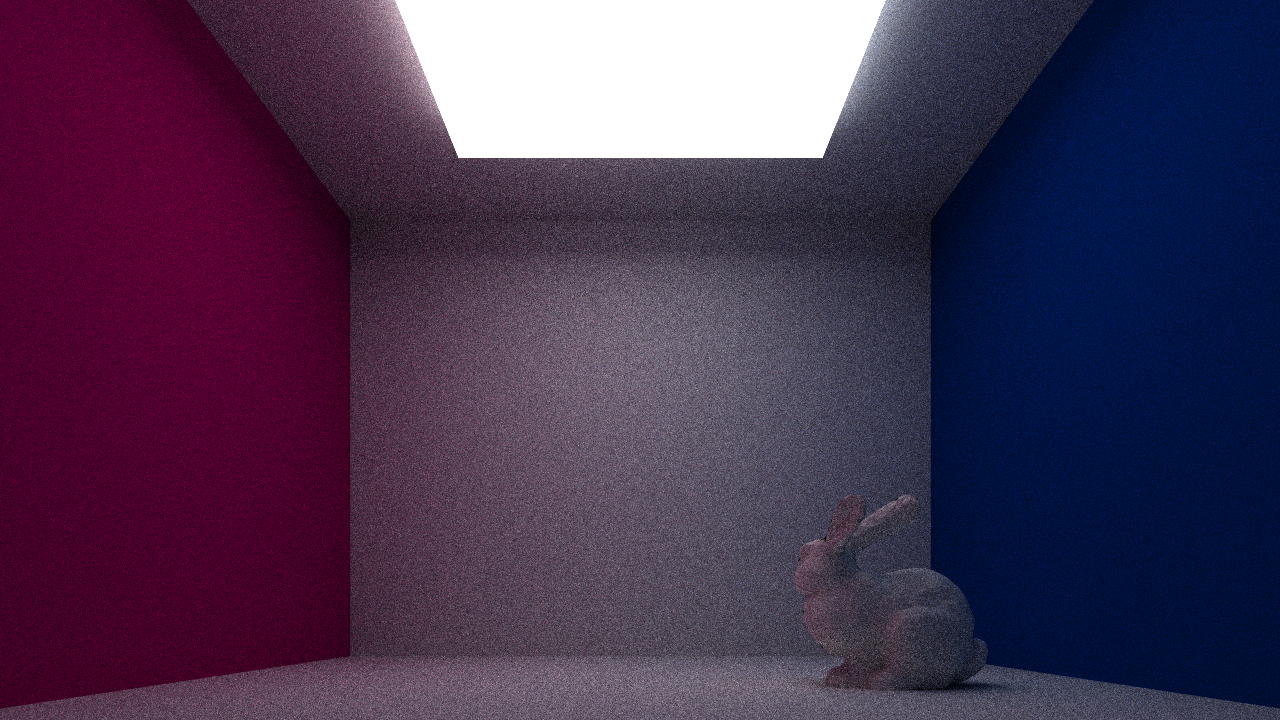
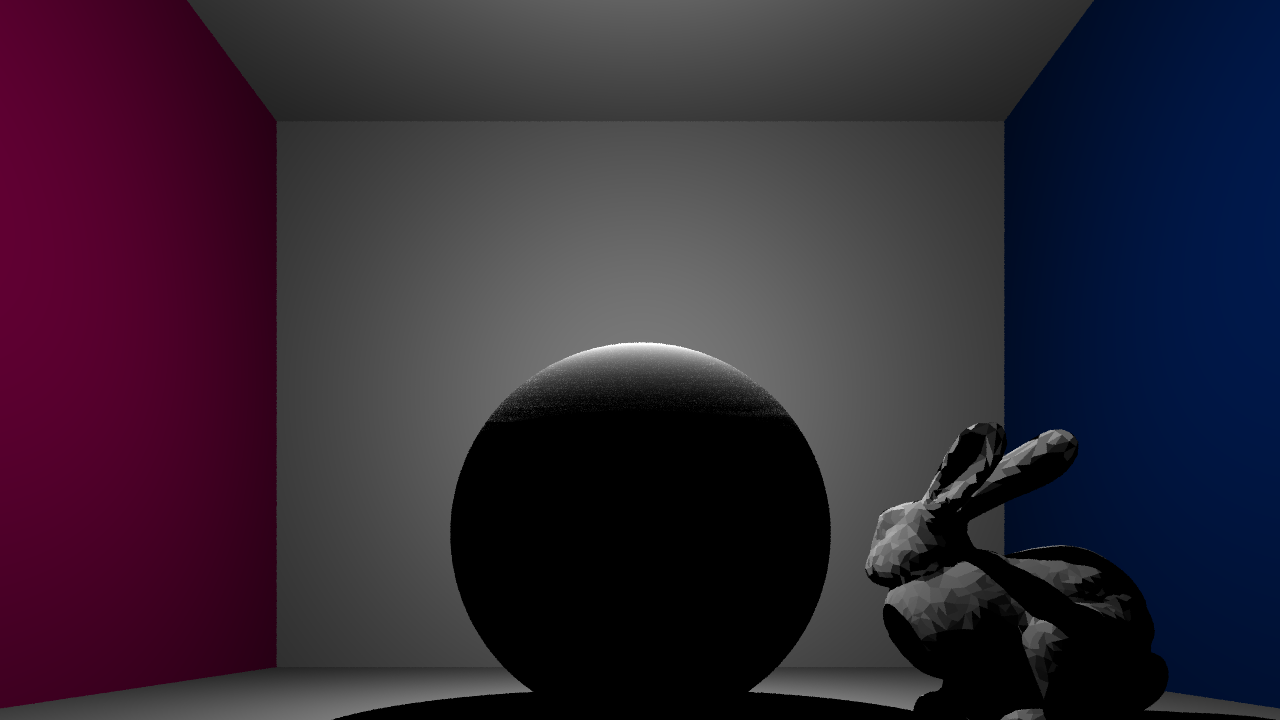
Only using structs

diff --git a/Scene.cpp b/Scene.cpp
@@ -21,13 +21,26 @@ Material areaLight = { BRIGHT,  MaterialType::LIGHT, 1.0, 1.0 };
 
 Scene::Scene()
 {
+	Primitive plane1 = { 0, ObjectType::PLANE, float3(1, 0, 0), float3(1, 0, 0), float3(0), float3(0), float3(1, 0, 0), 2.f, 0.f, 0.f, purpleDiffuse }; // left wall
+	Primitive plane2 = { 1, ObjectType::PLANE, float3(-1, 0, 0), float3(-1, 0, 0), float3(0), float3(0), float3(-1, 0, 0), 2.f, 0.f, 0.f, blueDiffuse }; // right wall
+	Primitive plane3 = { 2, ObjectType::PLANE, float3(0, -1, 0), float3(0, -1, 0), float3(0), float3(0), float3(0, -1, 0), 2.f, 0.f, 0.f, whiteDiffuse }; // ceiling
+	Primitive plane4 = { 3, ObjectType::PLANE, float3(0, 1, 0), float3(0, 1, 0), float3(0), float3(0), float3(0, 1, 0), 1.f, 0.f, 0.f, whiteDiffuse }; // floor wall
+	Primitive plane5 = { 4, ObjectType::PLANE, float3(0, 0, 1), float3(0, 0, 1), float3(0), float3(0), float3(0, 0, 1), 3.f, 0.f, 0.f, whiteDiffuse }; // front wall
+	Primitive plane6 = { 5, ObjectType::PLANE, float3(0, 0, -1), float3(0, 0, -1), float3(0), float3(0), float3(0, 0, -1), 2.f, 0.f, 0.f, whiteDiffuse }; // back wall
 	planes.emplace_back(Plane(0, float3(1, 0, 0), 2.f, purpleDiffuse)); // left wall
 	planes.emplace_back(Plane(1, float3(-1, 0, 0), 2.f, blueDiffuse)); // right wall
 	planes.emplace_back(Plane(2, float3(0, -1, 0), 2.f, whiteDiffuse)); // ceiling
 	planes.emplace_back(Plane(3, float3(0, 1, 0), 1.f, whiteDiffuse)); // floor
 	planes.emplace_back(Plane(4, float3(0, 0, 1), 3.f, whiteDiffuse)); // front wall
 	planes.emplace_back(Plane(5, float3(0, 0, -1), 2.f, whiteDiffuse)); // back wall
-	
+
+	/*primitives.push_back(plane1);
+	primitives.push_back(plane2);
+	primitives.push_back(plane3);
+	primitives.push_back(plane4);
+	primitives.push_back(plane5);
+	primitives.push_back(plane6);*/
+
 	//spheres.emplace_back(Sphere(0, float3(-1.3f, 0.f, 0.f), 0.6f, whiteDiffuse, new TextureMap("\\assets\\universe.jpg")));
 	//spheres.emplace_back(Sphere(1, float3(-0.2f, 0.f, 0.f), 0.5f, mirror));
 	//spheres.emplace_back(Sphere(2, float3(0.7f, 0.f, 0.f), 0.4f, glass));
@@ -41,21 +54,32 @@ Scene::Scene()
 
 	//skydomeTexture = new TextureMap("\\assets\\sky.jfif");
 
+	Primitive sphere = { 0, ObjectType::SPHERE, float3(0.f, -0.5f, 0), float3(0.f, -0.5f, 0), float3(0), float3(0), float3(0), 0.5f, 0.f, 0.f, whiteDiffuse };
+	primitives.push_back(sphere);
+	LoadModelNew(primitives.size(), "assets\\bunny.obj", whiteDiffuse, float3(2.0f, -2.f, 0.0f), 0.5f);
+	//LoadModelNew(primitives.size(), "assets\\ChristmasTree.obj", greenDiffuse, float3(10.0f, -15.f, 10.0f), 0.01f);
+
+	bvh = new Bvh(primitives);
+	bvh->BuildBVH();
+
 #ifdef WHITTED_STYLE
 	light = new Light(float3(0.f, 0.5f, 0.0f));
 #else
 	triangles.emplace_back(Triangle(0, float3(-1.f, 1.8f, -1.f), float3(1.f, 1.8f, -1.f), float3(1.f, 1.8f, 1.f), float3(0, -1, 0), areaLight));
 	triangles.emplace_back(Triangle(1, float3(-1.f, 1.8f, 1.f), float3(-1.f, 1.8f, -1.f), float3(1.f, 1.8f, 1.f), float3(0, -1, 0), areaLight));
 #endif
-
-	//LoadModelNew(0, "assets\\ChristmasTree.obj", greenDiffuse, float3(10.0f, -15.f, 10.0f), 0.01f);
-	LoadModelNew(2, "assets\\bunny.obj", whiteDiffuse, float3(2.0f, -2.f, 0.0f), 0.5f);
 }
 
 void Scene::FindNearest(Ray& ray, bool isShadowRay)
 {
 	float t;
+	for (int i = 0; i < planes.size(); ++i)
+	{
+		planes[i].Intersect(ray);
+	}
+	bvh->IntersectBVH(ray, Bvh::rootNodeIdx);
 
+	/*
 	for (int i = 0; i < triangles.size(); ++i)
 	{
 		triangles[i].Intersect(ray);
@@ -83,7 +107,7 @@ void Scene::FindNearest(Ray& ray, bool isShadowRay)
 	for (int i = 0; i < planes.size(); ++i)
 	{
 		planes[i].Intersect(ray);
-	}
+	}*/
 }
 
 bool Scene::IsOccluded(const Ray& ray)
@@ -253,7 +277,6 @@ void Scene::LoadModel(int idx, const char* fileName, Material material, const fl
 
 void Scene::LoadModelNew(int triIdx, const char* fileName, Material material, const float3& offset, float scale)
 {
-	std::vector<Triangle> mesh;
 	mat4 transform = mat4::Translate(offset.x, offset.y, offset.z) ;
 
 	std::string inputfile = fileName;
@@ -315,8 +338,8 @@ void Scene::LoadModelNew(int triIdx, const char* fileName, Material material, co
 				// tinyobj::real_t green = attrib.colors[3*size_t(idx.vertex_index)+1];
 				// tinyobj::real_t blue  = attrib.colors[3*size_t(idx.vertex_index)+2];
 			}
-			Triangle newTri = Triangle(triIdx, vertices[0], vertices[1], vertices[2], normal, material);
-			mesh.push_back(newTri);
+			Primitive primitive = { triIdx, ObjectType::TRIANGLE, (vertices[0]+vertices[1]+vertices[2])/0.33333f, vertices[0], vertices[1], vertices[2], normal, 0.f, 0.f, 0.f, material};
+			primitives.push_back(primitive);
 
 			index_offset += fv;
 			triIdx += 1;
@@ -324,10 +347,6 @@ void Scene::LoadModelNew(int triIdx, const char* fileName, Material material, co
 			shapes[s].mesh.material_ids[f];
 		}
 	}
-
-	Bvh b(mesh);
-	b.BuildBVH();
-	models.emplace_back(b);
 }
 
 float3 Scene::GetAlbedo(Ray& ray, const float3& N)

diff --git a/Bvh.cpp b/Bvh.cpp
@@ -1,9 +1,9 @@
 #include "precomp.h"
 
-Bvh::Bvh(vector<Triangle> triangles) {
-    tri = triangles;
+Bvh::Bvh(vector<Primitive> pri) {
+    primitives = pri;
     
-    N = tri.size();
+    N = primitives.size();
     
     for (int i = 0; i < 2 * N; i++) {
         BVHNode newNode = {
@@ -12,19 +12,16 @@ Bvh::Bvh(vector<Triangle> triangles) {
         bvhNodes.push_back(newNode);
     }
     
-    triIndices.resize(N);
+    primitivesIndices.resize(N);
 }
 
 void Bvh::BuildBVH()
 {
     // populate triangle index array
-    for (int i = 0; i < N; i++) triIndices[i] = i;
-    // calculate triangle centroids for partitioning
-    for (int i = 0; i < N; i++)
-        tri[i].centroid = (tri[i].v0 + tri[i].v1 + tri[i].v2) * 0.3333f;
+    for (int i = 0; i < N; i++) primitivesIndices[i] = i;
     // assign all triangles to root node
     BVHNode& root = bvhNodes[rootNodeIdx];
-    root.leftFirst = 0, root.triCount = N;
+    root.leftFirst = 0, root.primitivesCount = N;
     UpdateNodeBounds(rootNodeIdx);
     // subdivide recursively
     Subdivide(rootNodeIdx);
@@ -35,15 +32,23 @@ void Bvh::UpdateNodeBounds(uint nodeIdx)
     BVHNode& node = bvhNodes[nodeIdx];
     node.aabbMin = float3(1e30f);
     node.aabbMax = float3(-1e30f);
-    for (uint first = node.leftFirst, i = 0; i < node.triCount; i++)
+    for (uint first = node.leftFirst, i = 0; i < node.primitivesCount; i++)
     {
-        Triangle& leafTri = tri[first + i];
-        node.aabbMin = fminf(node.aabbMin, leafTri.v0);
-        node.aabbMin = fminf(node.aabbMin, leafTri.v1);
-        node.aabbMin = fminf(node.aabbMin, leafTri.v2);
-        node.aabbMax = fmaxf(node.aabbMax, leafTri.v0);
-        node.aabbMax = fmaxf(node.aabbMax, leafTri.v1);
-        node.aabbMax = fmaxf(node.aabbMax, leafTri.v2);
+        Primitive& leafPri = primitives[first + i];
+        if (leafPri.type == ObjectType::TRIANGLE)
+        {
+            node.aabbMin = fminf(node.aabbMin, leafPri.v1);
+            node.aabbMin = fminf(node.aabbMin, leafPri.v2);
+            node.aabbMin = fminf(node.aabbMin, leafPri.v3);
+            node.aabbMax = fmaxf(node.aabbMax, leafPri.v1);
+            node.aabbMax = fmaxf(node.aabbMax, leafPri.v2);
+            node.aabbMax = fmaxf(node.aabbMax, leafPri.v3);
+        }
+        else if (leafPri.type == ObjectType::SPHERE)
+        {
+            node.aabbMin = fminf(node.aabbMin, leafPri.v1-leafPri.size);
+            node.aabbMax = fmaxf(node.aabbMax, leafPri.v1+leafPri.size);
+        }
     }
 }
 
@@ -51,7 +56,7 @@ void Bvh::Subdivide(uint nodeIdx)
 {
     // terminate recursion
     BVHNode& node = bvhNodes[nodeIdx];
-    if (node.triCount <= 2) return;
+    if (node.primitivesCount <= 2) return;
     // determine split axis and position
     float3 extent = node.aabbMax - node.aabbMin;
     int axis = 0;
@@ -60,26 +65,26 @@ void Bvh::Subdivide(uint nodeIdx)
     float splitPos = node.aabbMin[axis] + extent[axis] * 0.5f;
     // in-place partition
     int i = node.leftFirst;
-    int j = i + node.triCount - 1;
+    int j = i + node.primitivesCount - 1;
     while (i <= j)
     {
-        if (tri[triIndices[i]].centroid[axis] < splitPos)
+        if (primitives[primitivesIndices[i]].centroid[axis] < splitPos)
             i++;
         else
-            swap(triIndices[i], triIndices[j--]);
+            swap(primitivesIndices[i], primitivesIndices[j--]);
     }
     // abort split if one of the sides is empty
     int leftCount = i - node.leftFirst;
-    if (leftCount == 0 || leftCount == node.triCount) return;
+    if (leftCount == 0 || leftCount == node.primitivesCount) return;
     // create child nodes
     int leftChildIdx = nodesUsed++;
     int rightChildIdx = nodesUsed++;
     bvhNodes[leftChildIdx].leftFirst = node.leftFirst;
-    bvhNodes[leftChildIdx].triCount = leftCount;
+    bvhNodes[leftChildIdx].primitivesCount = leftCount;
     bvhNodes[rightChildIdx].leftFirst = i;
-    bvhNodes[rightChildIdx].triCount = node.triCount - leftCount;
+    bvhNodes[rightChildIdx].primitivesCount = node.primitivesCount - leftCount;
     node.leftFirst = leftChildIdx;
-    node.triCount = 0;
+    node.primitivesCount = 0;
     UpdateNodeBounds(leftChildIdx);
     UpdateNodeBounds(rightChildIdx);
     // recurse
@@ -94,8 +99,8 @@ void Bvh::IntersectBVH(Ray& ray, const uint nodeIdx)
     if (!IntersectAABB(ray, node.aabbMin, node.aabbMax)) return;
     if (node.isLeaf())
     {
-        for (uint i = 0; i < node.triCount; i++)
-            tri[triIndices[node.leftFirst + i]].Intersect(ray);
+        for (uint i = 0; i < node.primitivesCount; i++)
+            primitives[primitivesIndices[node.leftFirst + i]].Intersect(ray);
     }
     else
     {

diff --git a/Bvh.h b/Bvh.h
@@ -4,16 +4,102 @@
 __declspec(align(32)) struct BVHNode
 {
 	float3 aabbMin, aabbMax;
-	uint leftFirst, triCount;
-	bool isLeaf() { return triCount > 0; }
+	uint leftFirst, primitivesCount;
+	bool isLeaf() { return primitivesCount > 0; }
 };
 
+struct Primitive { 
+	int index; ObjectType type; float3 centroid; float3 v1; float3 v2; float3 v3; float3 n; float size; float u; float v; Material material;
+	void Intersect(Ray& ray)
+	{
+		if (type == ObjectType::TRIANGLE)
+		{
+			IntersectTriangle(ray);
+		}
+		else if (type == ObjectType::PLANE)
+		{
+			IntersectPlane(ray);
+		}
+		else if (type == ObjectType::SPHERE)
+		{
+			IntersectSphere(ray);
+		}
+	}
+	void IntersectTriangle(Ray& ray)
+	{
+		float3 edge1 = v2 - v1;
+		float3 edge2 = v3 - v1;
+		float3 h = cross(ray.D, edge2);
+		float a = dot(edge1, h);
+		if (a > -EPSILON && a < EPSILON) return; // the ray is parallel to the triangle	
+		float f = 1.0 / a;
+		float3 s = ray.O - v1;
+		u = f * dot(s, h);
+		if (u < 0.0 || u > 1.0) return;
+		float3 q = cross(s, edge1);
+		v = f * dot(ray.D, q);
+		if (v < 0.0 || u + v > 1.0) return;
+		float t = f * dot(edge2, q);
+		if (t > EPSILON && t < ray.t)
+		{
+			ray.t = t;
+			ray.objIdx = index;
+			ray.objMaterial = material;
+			ray.objType = ObjectType::TRIANGLE;
+			ray.normal = n;
+			ray.inside = dot(ray.D, n) > 0;
+			return;
+		}
+		return;
+	}
+	void IntersectPlane(Ray& ray)
+	{
+		float t = -(dot(ray.O, n) + size) / (dot(ray.D, n));
+		if (t < ray.t && t > 0)
+		{
+			ray.t = t;
+			ray.objIdx = index;
+			ray.objMaterial = material;
+			ray.objType = ObjectType::PLANE;
+			ray.normal = n;
+			ray.inside = dot(ray.D, n) > 0;
+		}
+	}
+	void IntersectSphere(Ray& ray)
+	{
+		float3 oc = ray.O - v1;
+		float b = dot(oc, ray.D);
+		float c = dot(oc, oc) - size * size;
+		float t, d = b * b - c;
+		if (d <= 0) return;
+		d = sqrtf(d), t = -b - d;
+		if (t < ray.t && t > 0)
+		{
+			float3 I = ray.O + t * ray.D;
+			n = normalize(I - v1);
+			u = 0.5 - atan2(n.z, n.x) * (1 / PI);
+			v = 0.5 - asin(n.y) * (1 / PI);
+			ray.t = t, ray.objIdx = index, ray.objMaterial = material, ray.objType = ObjectType::SPHERE, ray.normal = n, ray.inside = dot(ray.D, n) > 0;
+			return;
+		}
+		t = d - b;
+		if (t < ray.t && t > 0)
+		{
+			float3 I = ray.O + t * ray.D;
+			n = normalize(I - v1);
+			u = 0.5 - atan2(n.z, n.x) * (1 / PI);
+			v = 0.5 - asin(n.y) * (1 / PI);
+			ray.t = t, ray.objIdx = index, ray.objMaterial = material, ray.objType = ObjectType::SPHERE, ray.normal = n, ray.inside = dot(ray.D, n) > 0;
+			return;
+		}
+	}
+};
 struct Bin { aabb bounds; int triCount = 0; };
 
 class Bvh
 {
 public:
-	Bvh(vector<Triangle> tri);
+	Bvh(vector<Primitive> primitives);
 	void	BuildBVH();
 	void	UpdateNodeBounds(uint nodeIdx);
 	void	Subdivide(uint nodeIdx);
@@ -22,8 +108,8 @@ public:
 public:
 	static const uint rootNodeIdx = 0;
 	uint nodesUsed = 1;
-	std::vector<Triangle> tri;
+	std::vector<Primitive> primitives;
 	int N;
 	std::vector<BVHNode> bvhNodes;
-	std::vector<int> triIndices;
+	std::vector<int> primitivesIndices;
 };

diff --git a/scene.h b/scene.h
@@ -20,12 +20,13 @@ public:
 
 public:
 	std::vector<Triangle> triangles;
-	std::vector<Bvh> models;
+	Bvh* bvh;
 	std::vector<Plane> planes;
 	std::vector<Sphere> spheres;
 	std::vector<Cube> cubes;
 	std::vector<Torus> tori;
 	std::vector<Cylinder> cylinders;
+	std::vector<Primitive> primitives;
 	Light* light;
 	TextureMap* skydomeTexture;
 };

diff --git a/template/precomp.h b/template/precomp.h
@@ -88,7 +88,7 @@ using namespace std;
 #include <GLFW/glfw3.h>
 #include <GLFW/glfw3native.h>
 
-//#define WHITTED_STYLE // uncomment for whitted
+#define WHITTED_STYLE // uncomment for whitted
 
 // zlib
 #include "zlib.h"
